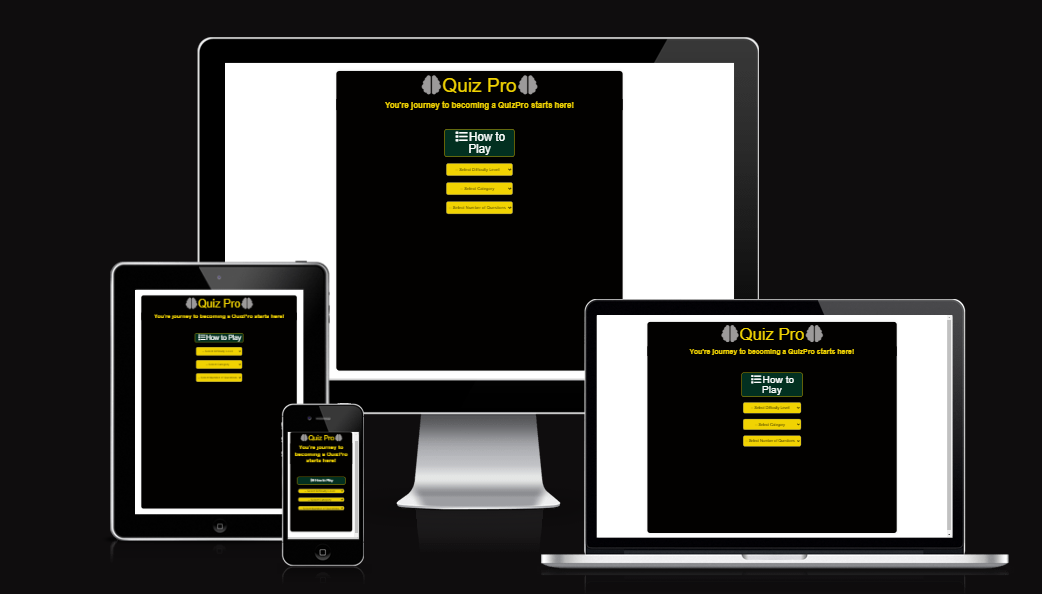
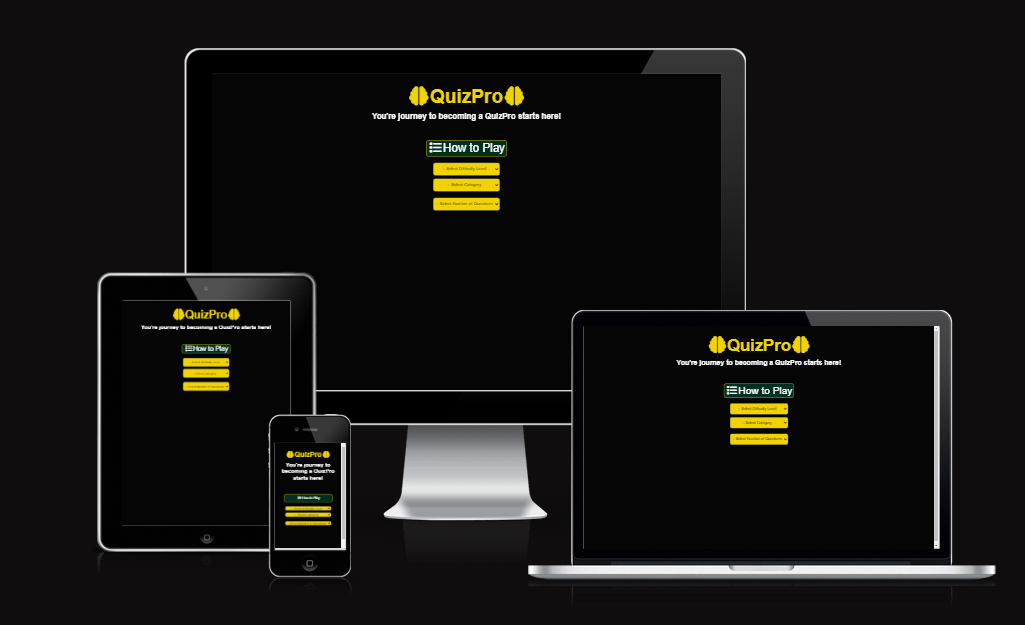
update CSS, remove unused colors,and update colors section in README

Changed region(s): [[0.0937, 0.0606, 0.9678, 0.9697]]

diff --git a/assets/css/style.css b/assets/css/style.css
@@ -6,9 +6,6 @@
 :root {
   /* Colors */
   --black: #050505;
-  --eerie-black: #1a1b1d;
-  --gunmetal: #262c35;
-  --rich-black: #023020;
   --school-bus-yellow: #f1d302;
   --dark-green: #023020;
   --light-green: #1EAA38;
@@ -79,8 +76,8 @@ ul li label {
 }
 
 input[type='radio'] {
-  background-color: var(--gunmetal);
   border-radius: 50%;
+  border: 2px solid var(--black)
 }
 
 input[type='radio']:checked {
@@ -162,7 +159,6 @@ select.dropdown-menu {
 }
 
 .brain-icon {
-  color: var(--light-gray);
   color: var(--school-bus-yellow);
 }
 

diff --git a/README.md b/README.md
@@ -1,23 +1,21 @@
-# [QuizPro](https://professorjames.github.io/quizpro/ 'QuizPro')
+# QuizPro
+
+### Deployed website [QuizPro](https://professorjames.github.io/quizpro/ 'QuizPro')
+
+![Am I Responsive](docs/validation/am-i-responsive.png)
 
 ## Goal for this Project
-
 Welcome to QuizPro: Your Ultimate Quiz Experience!
 
 The primary goal of QuizPro is to create a user-friendly, feature-rich, and versatile quiz application that provides an engaging and educational experience for both quiz creators and quiz takers.
 
+Users are able to generate quizzes with different difficult levels, topics and  number of questions. 
+
 ## Table of Contents
 
-- [QuizPro](#QuizPro)
-  - [Goal for this Project](#goal-for-this-project)
-  - [Table of Contents](#table-of-contents)
 - [UX](#ux)
-  - [User Goals](#user-goals)
   - [User Stories](#user-stories)
-  - [Site Owner Goals](#site-owner-goals)
-    - [Requirements](#requirements)
-    - [Expectations](#expectations)
-  - [Design Choices](#design-choices)
+- [Design Choices](#design-choices)
     - [Fonts](#fonts)
     - [Colours](#colours)
     - [Icons](#icons)
@@ -37,23 +35,26 @@ The primary goal of QuizPro is to create a user-friendly, feature-rich, and vers
 
 # UX
 
-## User Goals
-
 ## User Stories
 
-## Site Owner Goals
-
-## Design Choices
-
-### Requirements
-
-### Expectations
+-	As a user, I want the website to be fully responsive and adapt to my device for a seamless experience.
+-	As a user, I want easy navigation while using this website.
+-	As a user, I want easy access to information on how to play the quiz.
+-	As a user, I want the ability to choose various difficulty levels.
+-	As a user, I want the ability to choose from various question categories. 
+-	As a user, I want the ability to choose various amounts of questions.
+-	As a user, I want immediate feedback to confirm whether my answer was correct or not.
+-	As a user, I want to keep track of the number of questions I answered correctly and incorrectly.
+-	As a user, I want to know my score at the end of the quiz
+-	As a user, I want to receive feedback at the end of the quiz
 
 \
 &nbsp;
 [Back to top](#table-of-contents)
 \
 &nbsp;
+
+## Design Choices
 
 ### Fonts
 
@@ -67,14 +68,13 @@ The colour pallette was generated using [Coolors](https://coolors.co/ 'Coolors')
 
 | CSS Variable Name | Hex Code  | Comment                                                                                                                  |
 | ----------------- | --------- | ------------------------------------------------------------------------------------------------------------------------ |
-| black             | `#020100` | Used as a background colour for website. Also used as a text colour in some sections.                                    |
-| eerie-black       | `#1A1B1D` |                                                                                                                          |
-| gunmetal          | `#262C35` |                                                                                                                          |
-| rich-black        | `#0D1321` |                                                                                                                          |
-| yellow            | `#F1D302` | Used to style h1 text, fontawesome icons, selected answers radio buttons                                                 |
-| dark-green        | `#023020` | Used to style body element when user selects a correct answer. Also used to style text of number of Correct Scores.      |
-| red               | `#C1292E` | Used to style body element when user selects an incorrect answer. Also used to style text of number of Incorrect Scores. |
-| white             | `#FFF`    |                                                                                                                          |
+| black             | `#050505` | Used as a background colour for website. Also used as a text colour in some sections.                                    |
+| school-bus-yellow            | `#F1D302` | Used to style h1 text, radio buttons when checked, answers when hovered, fontawesome icons, selected answers radio buttons                                                 |
+| dark-green        | `#023020` | Used as background color for 'How to Play', 'Start Quiz', 'Submit Answer' and 'Play Again' buttons. Also used for backgroundcolor of modal header text.      |
+| light-green        | `#1EAA38` | Used to style body element when user selects a correct answer. Also used to style text of number of Correct Scores.      |
+| fire-engine-red               | `#C1292E` | Used to style body element when user selects an incorrect answer. Also used to style text of number of Incorrect Scores. |
+| light-gray               | `#9c9a9a` | Used to style question text and as a background color for 'Close' button in modal |
+| white             | `#FFF`    |      Used to style some text |
 
 ### Icons
 
